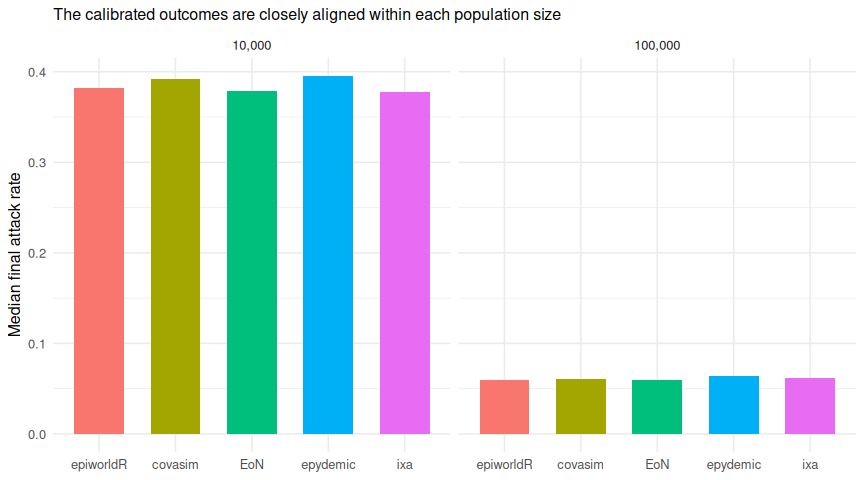
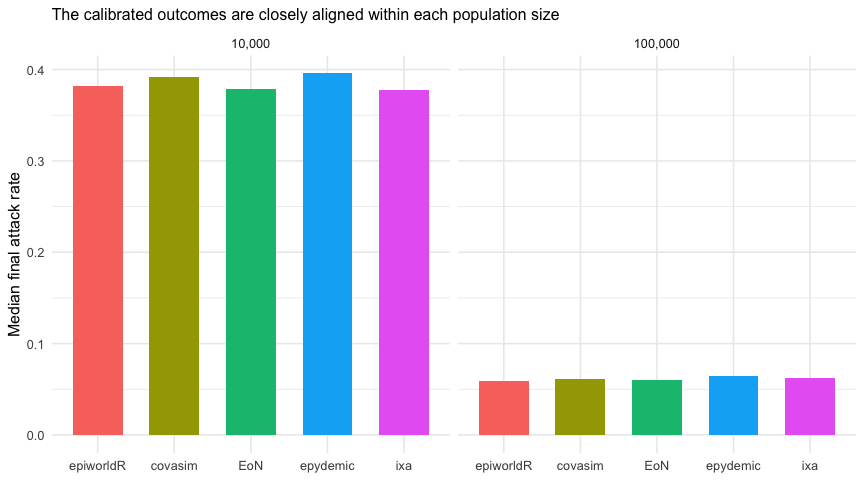
Add model code-size table to the report
Count the lines and files each engine needs to define the SEIRH model,
located by text anchors in README.qmd so runner sources (and the cache
fingerprint) are unchanged.

diff --git a/README.md b/README.md
@@ -6,6 +6,8 @@
 - [Simulation time](#simulation-time)
 - [Speed relative to epiworldR](#speed-relative-to-epiworldr)
 - [Epidemiological sanity checks](#epidemiological-sanity-checks)
+- [Code required to define the
+  model](#code-required-to-define-the-model)
 - [Design and interpretation](#design-and-interpretation)
 - [Reproducibility and cache](#reproducibility-and-cache)
 - [References](#references)
@@ -102,6 +104,30 @@ and Covasim’s native symptom/severe bookkeeping.
 | ixa       | 100000 |                    0.062 |                     31.0 |
 
 ![](README_files/figure-commonmark/outcomes-plot-1.png)
+
+## Code required to define the model
+
+A rough measure of effort: how much code each engine needs to express
+the common SEIRH model. *Model lines* counts non-blank, non-comment
+lines that build the population and network, define the disease, and run
+the simulation. Argument parsing, edge-file reading, timing, and writing
+results are excluded because every runner shares them. *Files* counts
+the files a user writes, including build manifests. They are counted
+from the runner sources when this report is rendered.
+
+| Engine    | Language | Files | Model lines |
+|:----------|:---------|------:|------------:|
+| EoN       | Python   |     1 |          37 |
+| epiworldR | R        |     1 |          47 |
+| covasim   | Python   |     1 |          64 |
+| epydemic  | Python   |     1 |          70 |
+| ixa       | Rust     |     3 |         133 |
+
+Model lines vary with how much of the model an engine provides built in.
+For example, EoN describes transitions as rate graphs, Covasim needs its
+native parameters overridden to restrict it to SEIRH, and the ixa runner
+writes its daily step by hand. The Python engines share one runner file,
+and ixa needs a Cargo project that is compiled before it runs.
 
 ## Design and interpretation
 
